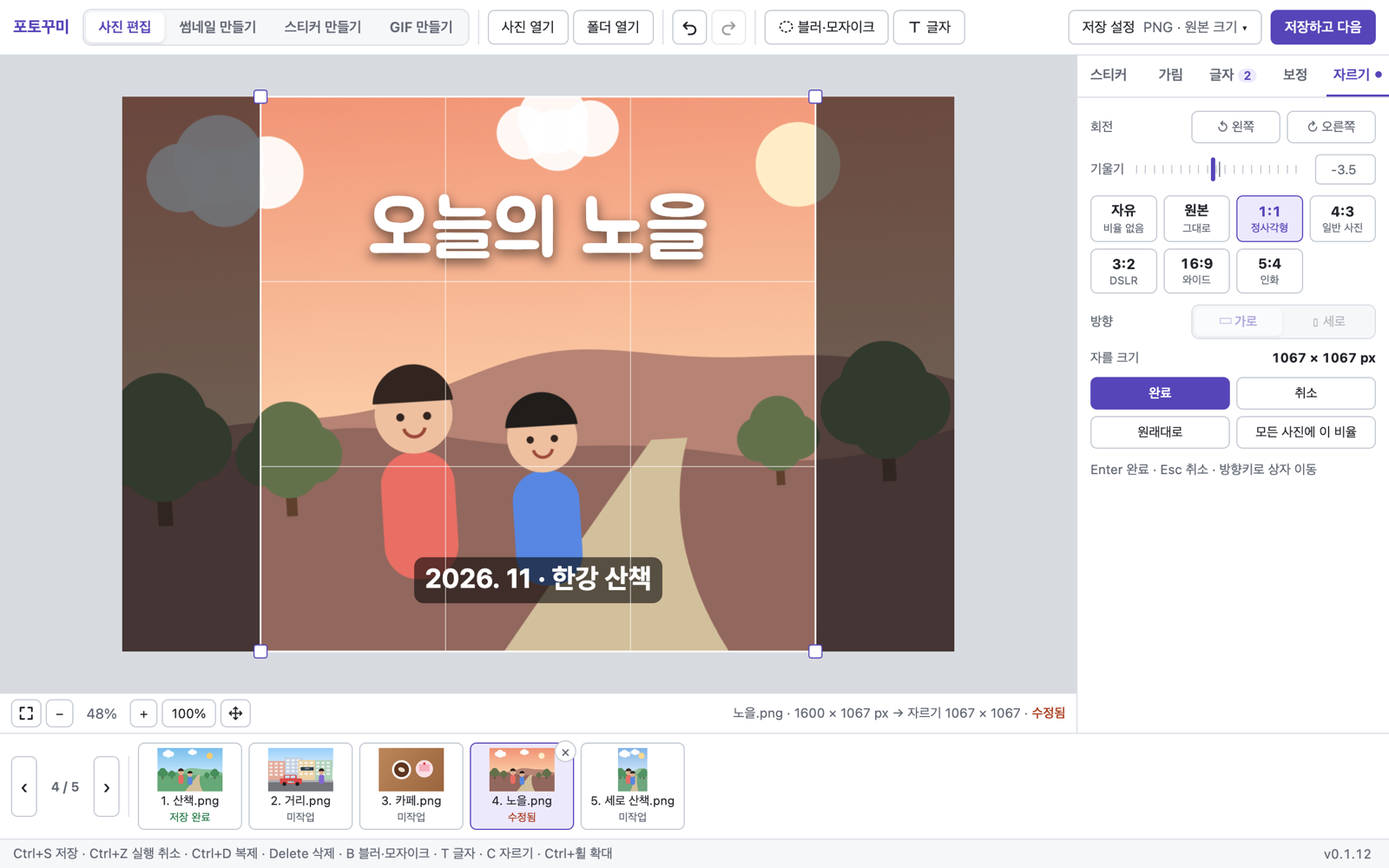
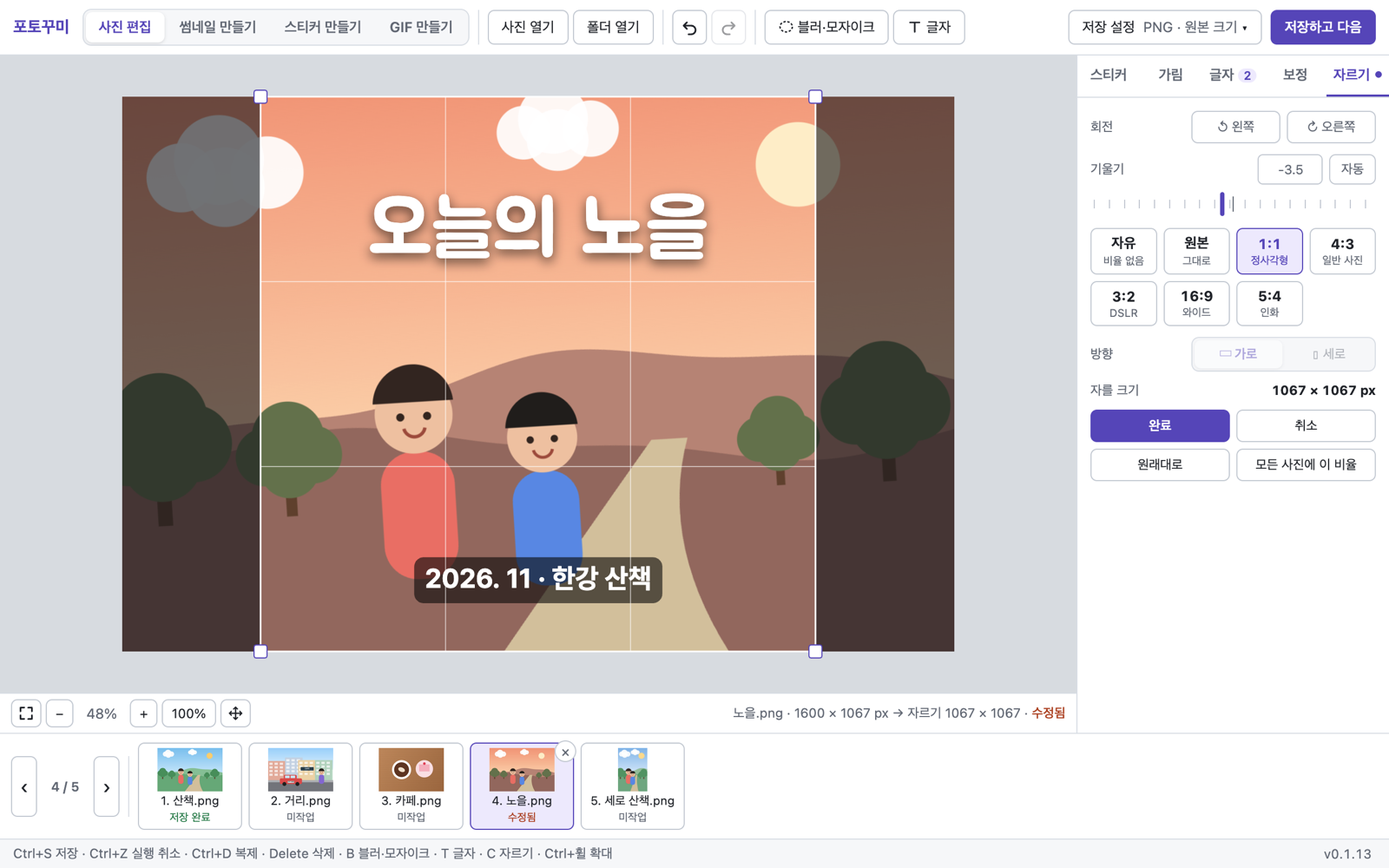
Add auto level button to the straighten row
estimateTilt votes Sobel edge directions in a small Hough transform over
±15° (horizontal lines first, verticals at half weight) and returns null when
no line is long enough to trust. The crop tab gets a 기울기 [number][자동]
row with a full-width ruler below; the hint moved into tooltips so nothing
wraps at the minimum window. README screenshots regenerated.

Changed region(s): [[0.7812, 0.186, 1.0, 0.372], [0.7812, 0.403, 1.0, 0.558]]

diff --git a/src/renderer/src.tsx b/src/renderer/src.tsx
@@ -28,7 +28,8 @@ import { composePng } from './export'
 import { ADJUSTMENT_KEYS, isNeutral, sameAdjustments, NEUTRAL_ADJUSTMENTS, type Adjustments } from '../shared/filters'
 import { CROP_LABELS, CROP_PRESETS, aspectRatio, centeredCrop, cropArea, fullCrop, hasOrientation, isPortraitAspect, moveCrop, normalizeCrop, orient, sameCrop, type Crop, type CropAspect, type CropRect } from '../shared/crop'
 import { turnScene, turnedSize, type Turn } from '../shared/turn'
-import { renderOriented } from './turn-photo'
+import { renderOriented, sampleOriented } from './turn-photo'
+import { LEVEL_RANGE, estimateTilt } from '../shared/level'
 import { MAX_STRAIGHTEN, normalizeStraighten } from '../shared/straighten'
 import './style.css'
 const validTextDefaults = (value: unknown): value is { style: TextStyle; relSize: number } => {
@@ -319,6 +320,17 @@ function App() {
     if (straighten === undefined) delete next.straighten
     if (live) liveEdit(next); else { commitLive(); editScene(next) }
   }
+  /** 자동: finds the lean of the photo's straight lines (on the turned photo, before any tilt) and cancels it. */
+  const autoStraighten = () => run(async () => {
+    if (!rawPhoto || rawPhoto.id === THUMB) return
+    const present = currentHistory.current.present
+    const found = estimateTilt(sampleOriented(rawPhoto.bitmap, present.turn))
+    if (!found) { setStatus(`수평 기준이 될 직선(수평선·건물·테이블 모서리)을 찾지 못했습니다. 눈금자로 맞춰 주세요. (±${LEVEL_RANGE}° 안에서 찾습니다)`); return }
+    const target = normalizeStraighten(-found.tilt)
+    if (target === present.straighten) { setStatus(target ? `이미 자동 수평(${target}°)으로 맞춰져 있습니다.` : '이미 수평입니다.'); return }
+    changeStraighten(target ?? 0)
+    setStatus(target ? `자동으로 ${target}° 기울여 수평을 맞췄습니다. 눈금자로 더 다듬을 수 있습니다.` : '이미 수평이라 기울기를 0°로 두었습니다.')
+  })
   function straightenKey(event: KeyboardEvent<HTMLInputElement>) {
     // Shift+arrow tilts 1° at a time (the slider's own arrows move 0.1°).
     const sign = ({ ArrowLeft: -1, ArrowDown: -1, ArrowRight: 1, ArrowUp: 1 } as Record<string, number>)[event.key]
@@ -1227,12 +1239,15 @@ function App() {
               <button disabled={busy || !cropDraft} title="왼쪽으로 90° 돌리기" aria-label="왼쪽으로 90° 회전" onClick={() => turnPhoto(false)}>↺ 왼쪽</button>
               <button disabled={busy || !cropDraft} title="오른쪽으로 90° 돌리기" aria-label="오른쪽으로 90° 회전" onClick={() => turnPhoto(true)}>↻ 오른쪽</button>
             </div></div>
-            <div className="straighten-row"><span>기울기</span>
+            <div className="field-row"><span>기울기</span><div className="straighten-head">
+              <input type="number" aria-label="기울기" min={-MAX_STRAIGHTEN} max={MAX_STRAIGHTEN} step="0.1" disabled={busy || !cropDraft} value={scene.straighten ?? 0}
+                onChange={e => changeStraighten(e.target.valueAsNumber)} />
+              <button disabled={busy || !cropDraft} title={`사진 속 직선(수평선·건물·테이블 모서리)을 찾아 ±${LEVEL_RANGE}° 안에서 수평을 맞춥니다`} aria-label="자동 수평" onClick={autoStraighten}>자동</button>
+            </div></div>
+            <div className="straighten-row">
               <input type="range" className="ruler" aria-label="기울기 슬라이더" min={-MAX_STRAIGHTEN} max={MAX_STRAIGHTEN} step="0.1" disabled={busy || !cropDraft} value={scene.straighten ?? 0}
                 title="끌어서 수평을 맞춥니다 · 방향키 0.1°, Shift+방향키 1° · 두 번 클릭하면 0°" onDoubleClick={() => changeStraighten(0)} onKeyDown={straightenKey}
                 onChange={e => changeStraighten(e.target.valueAsNumber, true)} onPointerUp={commitLive} onKeyUp={commitLive} onBlur={commitLive} />
-              <input type="number" aria-label="기울기" min={-MAX_STRAIGHTEN} max={MAX_STRAIGHTEN} step="0.1" disabled={busy || !cropDraft} value={scene.straighten ?? 0}
-                onChange={e => changeStraighten(e.target.valueAsNumber)} />
             </div>
             <div className="crop-presets" role="radiogroup" aria-label="자르기 비율">
               {CROP_PRESETS.map(base => {
@@ -1247,13 +1262,13 @@ function App() {
             </div></div>
             <p className="crop-size">자를 크기 <strong data-testid="crop-size" data-x={cropDraft?.crop.x} data-y={cropDraft?.crop.y}>{cropDraft ? `${cropDraft.crop.width} × ${cropDraft.crop.height} px` : '-'}</strong></p>
             <div className="crop-actions">
-              <button className="primary" disabled={busy || !cropDraft} title="Enter" onClick={finishCrop}>완료</button>
+              <button className="primary" disabled={busy || !cropDraft} title="Enter · 방향키로 자를 상자 1px, Shift+방향키 10px 이동" onClick={finishCrop}>완료</button>
               <button disabled={busy || !cropDraft} title="Esc — 이 탭을 열기 전 범위로" onClick={cancelCrop}>취소</button>
               <button disabled={busy || !cropDraft || (cropDraft.crop.width === cropDraft.width && cropDraft.crop.height === cropDraft.height)} title="자르지 않은 원본 전체로 (잘린 부분은 원본에 남아 언제든 다시 넓힐 수 있습니다)" onClick={resetCrop}>원래대로</button>
               <button disabled={busy || !cropDraft || photos.length < 2 || !aspect || aspect === 'free' || aspect === 'original'}
                 title="다른 사진을 같은 비율로 가운데를 자릅니다 (세로 사진은 세로 비율로)" onClick={applyCropToAll}>모든 사진에 이 비율</button>
             </div>
-            <p className="hint">{photo ? 'Enter 완료 · Esc 취소 · 방향키로 상자 이동' : '사진을 열면 자를 수 있습니다.'}</p>
+            {!photo && <p className="hint">사진을 열면 자르고 돌릴 수 있습니다.</p>}
           </section>
         })() : sideTab === 'text' ? textPanel : sideTab === 'adjust' ? <section className="adjust-panel" aria-label="사진 보정">
           {ADJUSTMENT_KEYS.map(key => {

diff --git a/src/shared/level.ts b/src/shared/level.ts
@@ -1,0 +1,100 @@
+/**
+ * Auto level (자동 수평): finds how far the photo's straight lines (horizon, buildings, tables, window frames)
+ * lean from horizontal/vertical, so the straighten tool can cancel it. No model or library: edge directions
+ * from a Sobel filter, then a small Hough vote over candidate tilts in which lines must also be collinear.
+ *
+ * Tilt is in degrees clockwise on screen (image y grows downward): a horizon whose right end sits lower leans +α,
+ * and straightening by −α levels it. Horizontal lines count fully; vertical ones half, because looking up at a
+ * building makes its verticals converge and would mislead the estimate.
+ */
+export interface GrayImage { data: Uint8Array | Uint8ClampedArray; width: number; height: number; channels: 1 | 4 }
+/** Search range: phone photos are rarely more than a few degrees off; wider ranges catch diagonals by mistake. */
+export const LEVEL_RANGE = 15
+const STEP = 0.1
+/** A point only votes for tilts within this many degrees of its own edge direction. */
+const LOCAL_SPREAD = 2
+const VERTICAL_WEIGHT = 0.5
+/** The best line must gather edge pixels along at least this share of the image's short side to be trusted. */
+const MIN_LINE_SHARE = 0.25
+
+export interface LevelResult { tilt: number; strength: number }
+
+function luminance(image: GrayImage): Float32Array {
+  const { data, width, height, channels } = image
+  const out = new Float32Array(width * height)
+  if (channels === 1) { for (let i = 0; i < out.length; i++) out[i] = data[i]; return out }
+  for (let i = 0; i < out.length; i++) out[i] = 0.299 * data[i * 4] + 0.587 * data[i * 4 + 1] + 0.114 * data[i * 4 + 2]
+  return out
+}
+
+/** Returns the lean of the photo's dominant straight lines, or null when no line is clear enough to trust. */
+export function estimateTilt(image: GrayImage): LevelResult | null {
+  const { width, height } = image
+  if (width < 16 || height < 16) return null
+  const gray = luminance(image)
+  // Edge points: position, local line direction (degrees, folded to the nearest axis) and family.
+  const xs: number[] = [], ys: number[] = [], tilts: number[] = [], vertical: boolean[] = []
+  const magnitudes = new Float32Array(width * height)
+  let maxMagnitude = 0
+  for (let y = 1; y < height - 1; y++) for (let x = 1; x < width - 1; x++) {
+    const i = y * width + x
+    const gx = gray[i - width + 1] + 2 * gray[i + 1] + gray[i + width + 1] - gray[i - width - 1] - 2 * gray[i - 1] - gray[i + width - 1]
+    const gy = gray[i + width - 1] + 2 * gray[i + width] + gray[i + width + 1] - gray[i - width - 1] - 2 * gray[i - width] - gray[i - width + 1]
+    const magnitude = Math.hypot(gx, gy)
+    magnitudes[i] = magnitude
+    if (magnitude > maxMagnitude) maxMagnitude = magnitude
+  }
+  // Strong edges only: faint texture (grass, noise, skin) points every way and only blurs the vote.
+  const threshold = Math.max(60, maxMagnitude * 0.25)
+  for (let y = 1; y < height - 1; y++) for (let x = 1; x < width - 1; x++) {
+    const i = y * width + x
+    if (magnitudes[i] < threshold) continue
+    const gx = gray[i - width + 1] + 2 * gray[i + 1] + gray[i + width + 1] - gray[i - width - 1] - 2 * gray[i - 1] - gray[i + width - 1]
+    const gy = gray[i + width - 1] + 2 * gray[i + width] + gray[i + width + 1] - gray[i - width - 1] - 2 * gray[i - width] - gray[i - width + 1]
+    // The line runs perpendicular to the gradient; fold its direction into (−90°, 90°].
+    let line = Math.atan2(gy, gx) * 180 / Math.PI - 90
+    while (line <= -90) line += 180
+    while (line > 90) line -= 180
+    if (Math.abs(line) <= LEVEL_RANGE + LOCAL_SPREAD) { xs.push(x); ys.push(y); tilts.push(line); vertical.push(false) }
+    else if (Math.abs(line) >= 90 - LEVEL_RANGE - LOCAL_SPREAD) { xs.push(x); ys.push(y); tilts.push(line > 0 ? line - 90 : line + 90); vertical.push(true) }
+  }
+  if (!xs.length) return null
+  // Hough vote: for each candidate tilt, project the points that agree with it onto the line normal (1px bins).
+  // Many points on one thin line → a tall bin; Σ bin² rewards long collinear runs over scattered matches.
+  const steps = Math.round(LEVEL_RANGE / STEP)
+  const diagonal = Math.ceil(Math.hypot(width, height)) + 2
+  const bins = new Float32Array(diagonal * 2)
+  // Unweighted point counts per bin: the trust check measures real line length whatever the family.
+  const counts = new Uint32Array(diagonal * 2)
+  let best = { tilt: 0, score: -1, peak: 0 }
+  const scores = new Float64Array(steps * 2 + 1)
+  for (let k = -steps; k <= steps; k++) {
+    const tilt = k * STEP, radians = tilt * Math.PI / 180, cos = Math.cos(radians), sin = Math.sin(radians)
+    bins.fill(0); counts.fill(0)
+    const touched: number[] = []
+    for (let p = 0; p < xs.length; p++) {
+      if (Math.abs(tilts[p] - tilt) > LOCAL_SPREAD) continue
+      // Horizontal family: distance along the normal (−sin, cos); vertical family: along (cos, sin).
+      const rho = vertical[p] ? xs[p] * cos + ys[p] * sin : -xs[p] * sin + ys[p] * cos
+      const bin = Math.round(rho) + diagonal
+      if (bins[bin] === 0) touched.push(bin)
+      bins[bin] += vertical[p] ? VERTICAL_WEIGHT : 1
+      counts[bin]++
+    }
+    let score = 0, peak = 0
+    for (const bin of touched) { score += bins[bin] * bins[bin]; if (counts[bin] > peak) peak = counts[bin] }
+    scores[k + steps] = score
+    if (score > best.score) best = { tilt, score, peak }
+  }
+  // Sobel marks both sides of a thin line, so a line of length L gathers about 2L in a 1px bin; halve to compare.
+  const shortSide = Math.min(width, height)
+  if (best.peak / 2 < shortSide * MIN_LINE_SHARE) return null
+  // Sub-step refinement: a parabola through the peak and its neighbours.
+  const index = Math.round(best.tilt / STEP) + steps
+  let tilt = best.tilt
+  if (index > 0 && index < scores.length - 1) {
+    const left = scores[index - 1], mid = scores[index], right = scores[index + 1], curve = left - 2 * mid + right
+    if (curve < 0) tilt += STEP * Math.max(-0.5, Math.min(0.5, (left - right) / (2 * curve)))
+  }
+  return { tilt: Math.round(tilt * 10) / 10, strength: best.peak / 2 / shortSide }
+}

diff --git a/tests/level.test.ts b/tests/level.test.ts
@@ -1,0 +1,71 @@
+import { describe, it, expect } from 'vitest'
+import { estimateTilt, type GrayImage } from '../src/shared/level'
+
+/** Deterministic noise so failures reproduce. */
+function random(seed: number) { return () => { seed = (seed * 1664525 + 1013904223) >>> 0; return seed / 2 ** 32 } }
+function image(width: number, height: number, shade: (x: number, y: number) => number): GrayImage {
+  const data = new Uint8Array(width * height)
+  for (let y = 0; y < height; y++) for (let x = 0; x < width; x++) data[y * width + x] = Math.max(0, Math.min(255, Math.round(shade(x + 0.5, y + 0.5))))
+  return { data, width, height, channels: 1 }
+}
+/** Anti-aliased step: 0 on one side of the line, 1 on the other, a 1px ramp across it. */
+const ramp = (distance: number) => Math.max(0, Math.min(1, distance + 0.5))
+/** Sky above, ground below a horizon leaning `degrees` clockwise (right end lower), with texture noise. */
+function horizon(degrees: number, width = 640, height = 480, noise = 18, seed = 7) {
+  const next = random(seed), t = Math.tan(degrees * Math.PI / 180), cos = Math.cos(degrees * Math.PI / 180)
+  return image(width, height, (x, y) => {
+    const distance = (y - (height * 0.45 + (x - width / 2) * t)) * cos
+    return 200 - 120 * ramp(distance) + (next() - 0.5) * noise
+  })
+}
+
+describe('자동 수평', () => {
+  it('기울어진 수평선의 각도를 0.2° 안으로 찾는다 (오른쪽이 내려가면 +)', () => {
+    for (const degrees of [0, 0.7, -2.3, 4, -6.5, 9.8, -14]) {
+      const result = estimateTilt(horizon(degrees, 640, 480, 18, Math.round(degrees * 10) + 100))
+      expect(result, `${degrees}°`).not.toBeNull()
+      expect(Math.abs(result!.tilt - degrees), `${degrees}° → ${result!.tilt}°`).toBeLessThanOrEqual(0.2)
+    }
+  })
+  it('세로 사진·RGBA 입력, 건물 세로선만 있는 사진도 찾는다', () => {
+    const portrait = horizon(3.2, 480, 640)
+    expect(Math.abs(estimateTilt(portrait)!.tilt - 3.2)).toBeLessThanOrEqual(0.2)
+    const rgba: GrayImage = { data: new Uint8Array(portrait.width * portrait.height * 4), width: portrait.width, height: portrait.height, channels: 4 }
+    portrait.data.forEach((value, i) => rgba.data.set([value, value, value, 255], i * 4))
+    expect(Math.abs(estimateTilt(rgba)!.tilt - 3.2)).toBeLessThanOrEqual(0.2)
+    // Dark pillars leaning −5°: a vertical line turned clockwise by α leans its top to the right.
+    const degrees = -5, t = Math.tan(degrees * Math.PI / 180), next = random(3)
+    const pillars = image(640, 480, (x, y) => {
+      const shifted = x + (y - 240) * t
+      const near = Math.min(...[120, 260, 400, 520].map(center => Math.abs(shifted - center)))
+      return 210 - 150 * ramp(6 - near) + (next() - 0.5) * 16
+    })
+    expect(Math.abs(estimateTilt(pillars)!.tilt - degrees)).toBeLessThanOrEqual(0.2)
+  })
+  it('올려다본 건물처럼 세로선이 모여 있어도 수평선을 따른다', () => {
+    const degrees = 3, t = Math.tan(degrees * Math.PI / 180), next = random(5)
+    const scene = image(640, 480, (x, y) => {
+      // Pillars lean toward a vanishing point above the photo (−6°…+6°), the horizon leans 3°.
+      const lean = [-6, -3, 3, 6].map((angle, i) => Math.abs(x - (110 + i * 140) - (y - 240) * Math.tan(angle * Math.PI / 180)))
+      const pillar = ramp(4 - Math.min(...lean))
+      const ground = ramp((y - (300 + (x - 320) * t)) * Math.cos(degrees * Math.PI / 180))
+      return 210 - 90 * ground - 80 * pillar + (next() - 0.5) * 16
+    })
+    expect(Math.abs(estimateTilt(scene)!.tilt - degrees)).toBeLessThanOrEqual(0.3)
+  })
+  it('직선이 없거나(질감만, 둥근 물체) 범위 밖 대각선뿐이면 null', () => {
+    const next = random(11)
+    expect(estimateTilt(image(640, 480, () => 128 + (next() - 0.5) * 60))).toBeNull()
+    const circle = image(640, 480, (x, y) => 220 - 160 * ramp(150 - Math.hypot(x - 320, y - 240)))
+    expect(estimateTilt(circle)).toBeNull()
+    const diagonal = image(640, 480, (x, y) => 220 - 160 * ramp(Math.abs((x - y) / Math.SQRT2) < 200 ? 1 : -1))
+    expect(estimateTilt(diagonal)).toBeNull()
+    expect(estimateTilt(image(8, 8, () => 0))).toBeNull()
+  })
+  it('640px 사진 한 장을 0.5초 안에 처리한다', () => {
+    const photo = horizon(2, 640, 480)
+    const start = performance.now()
+    estimateTilt(photo)
+    expect(performance.now() - start).toBeLessThan(500)
+  })
+})

diff --git a/tests/e2e/editor.spec.ts b/tests/e2e/editor.spec.ts
@@ -1830,6 +1830,42 @@ test('기울기: 눈금자·숫자·방향키로 0.1° 단위 조절, 빈 귀퉁
   expect(createHash('sha256').update(await readFile(source)).digest('hex')).toBe(original)
 })
 
+test('자동 수평: 기울어진 수평선을 찾아 반대로 기울이고, 직선이 없으면 안내만 하며 값을 바꾸지 않는다', async () => {
+  // Sky above, ground below a horizon whose right end is 4° lower; noise keeps it photo-like.
+  let seed = 1
+  const noise = () => { seed = (seed * 1664525 + 1013904223) >>> 0; return (seed / 2 ** 32 - 0.5) * 24 }
+  const t = Math.tan(4 * Math.PI / 180)
+  await writeFile(source, makePng(1200, 800, (x, y) => {
+    const ground = Math.max(0, Math.min(1, y + 0.5 - (360 + (x + 0.5 - 600) * t) + 0.5))
+    const v = 200 - 110 * ground + noise()
+    return [v, v + 10, v + 25, 255]
+  }))
+  const flat = join(directory, '질감.png')
+  await writeFile(flat, makePng(900, 600, () => { const v = 150 + noise() * 2; return [v, v, v, 255] }))
+  await select([flat, source]); await page.getByRole('button', { name: '사진 열기', exact: true }).click()
+  const angle = page.getByRole('spinbutton', { name: '기울기', exact: true }), tab = page.getByRole('tab', { name: /자르기/ })
+  // No straight line: only a message, the angle and the photo stay as they were.
+  await tab.click()
+  await page.getByRole('button', { name: '자동 수평', exact: true }).click()
+  await expect(page.getByRole('status')).toContainText('직선')
+  await expect(angle).toHaveValue('0')
+  await expect(page.getByRole('button', { name: '사진 1: 질감.png', exact: true })).not.toContainText('수정됨')
+  await page.getByRole('button', { name: '완료', exact: true }).click()
+
+  await page.getByRole('button', { name: '사진 2: 한글 사진.png', exact: true }).click()
+  await expect(page.getByRole('status')).toContainText('한글 사진.png · 편집 중')
+  await tab.click()
+  await page.getByRole('button', { name: '자동 수평', exact: true }).click()
+  await expect(page.getByRole('status')).toContainText('수평을 맞췄습니다')
+  expect(Math.abs(Number(await angle.inputValue()) + 4)).toBeLessThanOrEqual(0.3)
+  // Pressing it again keeps the same angle.
+  await page.getByRole('button', { name: '자동 수평', exact: true }).click()
+  await expect(page.getByRole('status')).toContainText('이미 자동 수평')
+  // One undo step back to level.
+  await page.getByTestId('canvas-area').focus(); await page.keyboard.press('ControlOrMeta+z')
+  await expect(angle).toHaveValue('0')
+})
+
 function findFfmpeg() {
   const { spawnSync } = process.getBuiltinModule('node:child_process') as typeof import('node:child_process')
   for (const candidate of [process.env.FFMPEG_PATH, 'ffmpeg', '/opt/homebrew/bin/ffmpeg', '/usr/local/bin/ffmpeg'].filter(Boolean) as string[]) {

diff --git a/src/renderer/turn-photo.ts b/src/renderer/turn-photo.ts
@@ -1,5 +1,6 @@
 import { turnedSize, type Turn } from '../shared/turn'
 import { coverScale } from '../shared/straighten'
+import type { GrayImage } from '../shared/level'
 /**
  * The photo as shown and saved: turned by quarter turns clockwise, then tilted by `straighten` degrees and enlarged
  * to cover the frame. A plain quarter turn uses whole-pixel translations only, so nothing is resampled.
@@ -28,5 +29,24 @@ export function renderOriented(bitmap: ImageBitmap, turn: Turn | undefined, stra
       context.drawImage(bitmap, 0, 0)
     }
     return canvas.transferToImageBitmap()
+  } finally { canvas.width = 0; canvas.height = 0 }
+}
+/** A small copy of the turned (not straightened) photo for auto level; long side at most `maxSide` pixels. */
+export function sampleOriented(bitmap: ImageBitmap, turn: Turn | undefined, maxSide = 640): GrayImage {
+  const size = turnedSize(bitmap, turn), scale = Math.min(1, maxSide / Math.max(size.width, size.height))
+  const width = Math.max(1, Math.round(size.width * scale)), height = Math.max(1, Math.round(size.height * scale))
+  const canvas = new OffscreenCanvas(width, height)
+  try {
+    const context = canvas.getContext('2d', { willReadFrequently: true })
+    if (!context) throw new Error('사진을 분석할 Canvas를 만들 수 없습니다.')
+    context.imageSmoothingEnabled = true
+    context.imageSmoothingQuality = 'high'
+    context.scale(width / size.width, height / size.height)
+    if (turn === 1) context.translate(size.width, 0)
+    else if (turn === 2) context.translate(size.width, size.height)
+    else if (turn === 3) context.translate(0, size.height)
+    context.rotate((turn ?? 0) * Math.PI / 2)
+    context.drawImage(bitmap, 0, 0)
+    return { data: context.getImageData(0, 0, width, height).data, width, height, channels: 4 }
   } finally { canvas.width = 0; canvas.height = 0 }
 }

diff --git a/src/renderer/style.css b/src/renderer/style.css
@@ -175,8 +175,10 @@ aside {
 .crop-panel .field-row .segmented { flex: 0 1 170px; }
 .crop-turn { flex: 0 1 170px; display: grid; grid-template-columns: 1fr 1fr; gap: 6px; }
 .crop-turn button { height: 30px; padding: 0 6px; font-size: 12px; }
-.straighten-row { display: grid; grid-template-columns: auto 1fr 56px; align-items: center; gap: 8px; color: var(--muted); font-size: 12px; }
-.straighten-row input[type=number] { width: 56px; height: 28px; text-align: right; }
+.straighten-head { display: flex; gap: 6px; }
+.straighten-head input[type=number] { width: 60px; height: 28px; text-align: right; }
+.straighten-head button { height: 28px; padding: 0 10px; font-size: 12px; }
+.straighten-row { display: flex; margin-top: -4px; }
 /* A ruler like phone galleries: a tick every 5° (18 steps over ±45°), a longer one at 0°, and the angle as an accent bar. */
 .straighten-row .ruler { -webkit-appearance: none; appearance: none; width: 100%; min-width: 0; height: 24px; margin: 0; padding: 0 3px; border: 0; cursor: ew-resize;
   background: linear-gradient(var(--muted), var(--muted)) center / 1px 14px no-repeat,

diff --git a/docs/development.md b/docs/development.md
@@ -6,7 +6,7 @@
 
 블로그에 올릴 사진을 빠르게 준비하는 **Windows용 로컬 데스크톱 앱**입니다. 사진을 열고, 미리 등록한 투명 PNG 스티커로 얼굴을 가리거나 사진을 꾸민 뒤, 크기를 맞춰 저장하고 다음 사진으로 넘어가는 반복 작업에 집중합니다.
 
-**현재 상태: 폴더 입력·하단 썸네일·블로그 리사이즈·스티커 관리 분리 구현 및 macOS 자동 검증 완료. 화면은 상단 툴바 1줄·`저장 설정` 팝오버·스크롤 없는 우측 패널로 정리했습니다([화면 레이아웃 기록](./ui-layout.md)). 탐색기에서 사진·폴더를 끌어 놓아 추가하고 썸네일 `×`로 목록에서 제거합니다([끌어 놓기 기록](./drop-import.md)). `블러·모자이크`로 사진 위에 타원 가림 영역을 그려 스티커처럼 이동·크기·회전하고 강도를 조절합니다([블러·모자이크 기록](./blur-regions.md)). 우측 `보정` 탭에서 노출·대비·채도·색온도를 조절하고 모든 사진에 같은 값을 적용할 수 있습니다([보정 기록](./adjustments.md)). `GIF 만들기` 모드에서 MOV/MP4의 구간을 `[` `]`로 골라 GIF로 저장합니다. 이 기능은 사용자가 따로 설치한 ffmpeg를 사용하며 앱에 포함하지 않습니다([GIF 기록](./gif.md)). 0.1.4부터 고양이·토끼·양·너구리 7방향 기본 스티커 28장(`animal`), 0.1.5부터 하트·반짝이·꽃 등 꾸미기 스티커 12장(`deco`)이 한 번 들어갑니다([기본 스티커 기록](./default-stickers.md)). 0.1.6부터 툴바 `T 글자`와 우측 `글자` 탭으로 사진 위에 글자를 넣고 글꼴(앱 내장 OFL 15종 + 내 PC 글꼴)·크기·색·외곽선·배경 상자·그림자를 조절하고, 빠른 스타일 21종과 직접 저장한 `내 스타일`을 쓰며 마지막 스타일·크기는 재실행 후에도 유지합니다([글자 넣기 기록](./text-overlay.md)). `썸네일 만들기` 모드에서 템플릿 34종(사진형 24·카드뉴스 10)으로 1080×1080 블로그 대표 이미지를 만들고, 템플릿 바꿔 보기·색 테마·도형·내 템플릿을 씁니다([썸네일 기록](./thumbnail.md)). 0.1.10부터 우측 `자르기` 탭(`C`)에서 자유·원본·1:1·4:3·3:2·16:9·5:4(가로/세로) 비율로 원본을 바꾸지 않고 자르고, 같은 비율을 모든 사진에 적용합니다. 같은 탭에서 사진을 90°씩 돌리면 스티커·글자·자를 범위도 함께 돌고, 눈금자로 ±45°까지 0.1°씩 기울여 수평을 맞춥니다(빈 귀퉁이 없이 확대)([자르기·회전·기울기 기록](./crop.md)). 0.1.11부터 아이폰 HEIC 사진을 앱에 내장한 libheif(LGPL-3.0)로 JPEG로 바꿔 열고, 1,600만 화소를 넘으면 열 때 줄입니다([HEIC 기록](./heic.md)). 0.1.12부터 툴바 `스티커 만들기` 모드에서 공정위 표기·소제목·마무리 스티커를 디자인 19종·문구 43개·직접 그린 아이콘 36종으로 만들어 투명 PNG로 저장하거나 라이브러리에 넣습니다([스티커 만들기 기록](./sticker-maker.md)).** 입력 폴더 또는 여러 JPG/PNG/HEIC 사진을 열고 하단 썸네일에서 전환하며 사진별 스티커 배치·선택·undo/redo·저장 상태를 유지합니다. PNG 스티커 라이브러리, 다중 배치·복제·삭제·겹침 순서와 원본/가로 너비·긴 축 기준 JPG·PNG 저장을 제공합니다. 확대 방지와 JPG 품질 100 고정 저장을 지원하며 공통 출력 설정은 재실행 후에도 유지합니다. `저장하고 다음`은 저장 성공 후에만 다음 사진으로 이동하며 마지막 사진에서는 완료를 안내합니다. 사진을 바꾸거나 종료할 때 수정 내용의 저장·버리기·취소를 선택합니다.
+**현재 상태: 폴더 입력·하단 썸네일·블로그 리사이즈·스티커 관리 분리 구현 및 macOS 자동 검증 완료. 화면은 상단 툴바 1줄·`저장 설정` 팝오버·스크롤 없는 우측 패널로 정리했습니다([화면 레이아웃 기록](./ui-layout.md)). 탐색기에서 사진·폴더를 끌어 놓아 추가하고 썸네일 `×`로 목록에서 제거합니다([끌어 놓기 기록](./drop-import.md)). `블러·모자이크`로 사진 위에 타원 가림 영역을 그려 스티커처럼 이동·크기·회전하고 강도를 조절합니다([블러·모자이크 기록](./blur-regions.md)). 우측 `보정` 탭에서 노출·대비·채도·색온도를 조절하고 모든 사진에 같은 값을 적용할 수 있습니다([보정 기록](./adjustments.md)). `GIF 만들기` 모드에서 MOV/MP4의 구간을 `[` `]`로 골라 GIF로 저장합니다. 이 기능은 사용자가 따로 설치한 ffmpeg를 사용하며 앱에 포함하지 않습니다([GIF 기록](./gif.md)). 0.1.4부터 고양이·토끼·양·너구리 7방향 기본 스티커 28장(`animal`), 0.1.5부터 하트·반짝이·꽃 등 꾸미기 스티커 12장(`deco`)이 한 번 들어갑니다([기본 스티커 기록](./default-stickers.md)). 0.1.6부터 툴바 `T 글자`와 우측 `글자` 탭으로 사진 위에 글자를 넣고 글꼴(앱 내장 OFL 15종 + 내 PC 글꼴)·크기·색·외곽선·배경 상자·그림자를 조절하고, 빠른 스타일 21종과 직접 저장한 `내 스타일`을 쓰며 마지막 스타일·크기는 재실행 후에도 유지합니다([글자 넣기 기록](./text-overlay.md)). `썸네일 만들기` 모드에서 템플릿 34종(사진형 24·카드뉴스 10)으로 1080×1080 블로그 대표 이미지를 만들고, 템플릿 바꿔 보기·색 테마·도형·내 템플릿을 씁니다([썸네일 기록](./thumbnail.md)). 0.1.10부터 우측 `자르기` 탭(`C`)에서 자유·원본·1:1·4:3·3:2·16:9·5:4(가로/세로) 비율로 원본을 바꾸지 않고 자르고, 같은 비율을 모든 사진에 적용합니다. 같은 탭에서 사진을 90°씩 돌리면 스티커·글자·자를 범위도 함께 돌고, 눈금자로 ±45°까지 0.1°씩 기울여 수평을 맞추며(빈 귀퉁이 없이 확대) `자동` 버튼은 사진 속 직선을 찾아 ±15° 안에서 수평을 잡습니다([자르기·회전·기울기 기록](./crop.md)). 0.1.11부터 아이폰 HEIC 사진을 앱에 내장한 libheif(LGPL-3.0)로 JPEG로 바꿔 열고, 1,600만 화소를 넘으면 열 때 줄입니다([HEIC 기록](./heic.md)). 0.1.12부터 툴바 `스티커 만들기` 모드에서 공정위 표기·소제목·마무리 스티커를 디자인 19종·문구 43개·직접 그린 아이콘 36종으로 만들어 투명 PNG로 저장하거나 라이브러리에 넣습니다([스티커 만들기 기록](./sticker-maker.md)).** 입력 폴더 또는 여러 JPG/PNG/HEIC 사진을 열고 하단 썸네일에서 전환하며 사진별 스티커 배치·선택·undo/redo·저장 상태를 유지합니다. PNG 스티커 라이브러리, 다중 배치·복제·삭제·겹침 순서와 원본/가로 너비·긴 축 기준 JPG·PNG 저장을 제공합니다. 확대 방지와 JPG 품질 100 고정 저장을 지원하며 공통 출력 설정은 재실행 후에도 유지합니다. `저장하고 다음`은 저장 성공 후에만 다음 사진으로 이동하며 마지막 사진에서는 완료를 안내합니다. 사진을 바꾸거나 종료할 때 수정 내용의 저장·버리기·취소를 선택합니다.
 
 선택한 스티커는 **Delete/Backspace로 삭제**, **방향키로 원본 기준 1px 이동**, **Shift+방향키로 10px 이동**합니다. 입력칸에서는 입력을 우선하며 캔버스를 클릭하면 스티커 조작으로 돌아갑니다. 회전 핸들에 마우스를 올리면 원형 화살표 커서가 표시됩니다. 삭제·이동도 실행 취소/다시 실행할 수 있습니다. Ctrl/Cmd+Z로 실행 취소, Ctrl/Cmd+Shift+Z 또는 Ctrl/Cmd+Y로 다시 실행, Ctrl/Cmd+D로 선택 스티커를 복제합니다. 입력칸·관리 화면에서는 편집 단축키를 가로채지 않습니다.
 
@@ -39,7 +39,7 @@ npm run build
 npm start
 ```
 
-실제 결과: 단위/파일 I/O 140개, Playwright Electron E2E 38개 통과(사진 90° 회전 좌표·저장 픽셀·undo, 기울기 역변환 픽셀·빈 귀퉁이 없음, 스티커 만들기 투명 PNG 픽셀·이름 충돌·라이브러리 분류·여러 문구 저장·재실행 유지, HEIC 열기·P3 색·1,600만 화소 축소·원본 불변·변환본 정리, 자르기 비율·상자 끌기·모든 사진에 비율·잘린 크기 저장 픽셀, 썸네일 1080 JPG 저장 픽셀·템플릿 바꾸기·내 템플릿 재실행 유지, 글자 넣기 미리보기·저장 픽셀 일치, 글자 스타일·내 스타일 재실행 유지, 기본 스티커 1회 추가·삭제 유지, 라이브러리 2개, 빈 라이브러리 등록·스티커 끌어 놓기·선택 도구 막대, 화면 배율 1·2 픽셀 회귀, 최소 창 크기 레이아웃 회귀, 끌어 놓기·제거, 블러·모자이크·보정 저장 픽셀, ffmpeg로 회전 HEVC MOV→GIF 포함. ffmpeg가 없으면 GIF E2E는 건너뜀), 타입·lint·빌드 통과(macOS 26.3 arm64). E2E는 native 파일 대화상자의 선택 결과만 대체하고 실제 main/preload/renderer, Canvas 인코딩과 파일 저장을 사용합니다. 화면 구성은 [레이아웃 기록](./ui-layout.md), 앱 아이콘 생성(`npm run icon -- <원본.png>`)은 [아이콘 기록](./icon.md), 설치 파일 배포(`v*` 태그 → draft Release)와 자동 업데이트(공개 Release 기준)는 [배포 기록](./release.md), 최신 폴더·화면 작업 흐름은 [반복 작업 개선 기록](./workflow.md), 출력 크기·형식과 오류 검증은 [단계 D 기록](./stage-d.md), 여러 사진 편집과 검증은 [단계 C 기록](./stage-c.md), 키보드 조작은 [키보드 조작 기록](./sticker-keyboard.md), 여러 스티커 편집은 [여러 스티커 수정 기록](./multiple-stickers.md), 라이브러리 형식·제한은 [단계 B 기록](./stage-b.md)에 있으며, 이전 검증은 [단계 A 안정화](./stage-a-stabilization.md), [의존성 감사 분석](./dependency-audit.md), [Windows 검증 절차](./windows-validation.md)에 있습니다.
+실제 결과: 단위/파일 I/O 145개, Playwright Electron E2E 39개 통과(사진 90° 회전 좌표·저장 픽셀·undo, 기울기 역변환 픽셀·빈 귀퉁이 없음, 자동 수평 각도·직선 없는 사진 안내, 스티커 만들기 투명 PNG 픽셀·이름 충돌·라이브러리 분류·여러 문구 저장·재실행 유지, HEIC 열기·P3 색·1,600만 화소 축소·원본 불변·변환본 정리, 자르기 비율·상자 끌기·모든 사진에 비율·잘린 크기 저장 픽셀, 썸네일 1080 JPG 저장 픽셀·템플릿 바꾸기·내 템플릿 재실행 유지, 글자 넣기 미리보기·저장 픽셀 일치, 글자 스타일·내 스타일 재실행 유지, 기본 스티커 1회 추가·삭제 유지, 라이브러리 2개, 빈 라이브러리 등록·스티커 끌어 놓기·선택 도구 막대, 화면 배율 1·2 픽셀 회귀, 최소 창 크기 레이아웃 회귀, 끌어 놓기·제거, 블러·모자이크·보정 저장 픽셀, ffmpeg로 회전 HEVC MOV→GIF 포함. ffmpeg가 없으면 GIF E2E는 건너뜀), 타입·lint·빌드 통과(macOS 26.3 arm64). E2E는 native 파일 대화상자의 선택 결과만 대체하고 실제 main/preload/renderer, Canvas 인코딩과 파일 저장을 사용합니다. 화면 구성은 [레이아웃 기록](./ui-layout.md), 앱 아이콘 생성(`npm run icon -- <원본.png>`)은 [아이콘 기록](./icon.md), 설치 파일 배포(`v*` 태그 → draft Release)와 자동 업데이트(공개 Release 기준)는 [배포 기록](./release.md), 최신 폴더·화면 작업 흐름은 [반복 작업 개선 기록](./workflow.md), 출력 크기·형식과 오류 검증은 [단계 D 기록](./stage-d.md), 여러 사진 편집과 검증은 [단계 C 기록](./stage-c.md), 키보드 조작은 [키보드 조작 기록](./sticker-keyboard.md), 여러 스티커 편집은 [여러 스티커 수정 기록](./multiple-stickers.md), 라이브러리 형식·제한은 [단계 B 기록](./stage-b.md)에 있으며, 이전 검증은 [단계 A 안정화](./stage-a-stabilization.md), [의존성 감사 분석](./dependency-audit.md), [Windows 검증 절차](./windows-validation.md)에 있습니다.
 
 단계 C 이전 Windows E2E **15개 전체 통과**를 사용자 로그로 확인했습니다. **단계 C·D와 이번 반복 작업 개선의 Windows 자동·수동 검증은 대기**이며 사용자가 나중에 모아서 확인할 예정입니다. 키보드 삭제·미세 이동·입력 보호·회전 커서, 라이브러리·다중 스티커 편집과 화면 배율 1·2 회귀를 포함합니다. Windows x64 NSIS 설정과 `npm run package:win` 스크립트는 준비했지만 **패키징 및 최신 설치본의 수동 GUI 검증은 대기**입니다. 단계 A의 기본 수동 편집·저장은 이전에 사용자 성공 보고를 받았습니다. 코드 서명·업데이트·릴리스 게시를 설정하지 않았습니다.
 

diff --git a/docs/crop.md b/docs/crop.md
@@ -59,3 +59,21 @@
 # 사진 불러오기 진행 표시 경합 수정 (2026-11-26)
 
 `사진 불러오는 중… 1/2` 진행 메시지는 별도 IPC 채널로 와서 가져오기 결과보다 늦게 도착할 수 있었다. 그러면 `사진 1장 추가` 상태를 덮어 E2E `탐색기에서 끌어 놓은 사진…`이 간헐적으로 실패했다(수정 전 코드에서 6회 중 4회). 가져오기 IPC를 기다리는 동안에만 진행 메시지를 표시하도록 고쳤고, 6회 반복 모두 통과했다.
+
+# 자동 수평 (2026-11-27)
+
+사용자 요청으로 기울기 줄에 `자동` 버튼을 넣었다. 모델·라이브러리 없이 직접 계산한다(`src/shared/level.ts`).
+
+## 결정
+
+- **방식**: 돌린(기울이기 전) 사진을 긴 변 640px로 줄여 → Sobel로 강한 경계만 고르고(최대값의 25%, 최소 60) → 각 점의 선 방향이 후보 각도 ±2° 안이면 선의 법선 방향 거리(1px 칸)에 투표 → 칸 값 제곱합이 가장 큰 각도를 고른다(긴 직선 하나가 흩어진 짧은 조각보다 이김). 0.1° 간격, 포물선 보간 후 0.1°로 반올림. 결과의 반대 각도를 기울기로 넣는다(실행 취소 1단계).
+- **범위 ±15°**: 휴대폰 사진은 보통 몇 도 안이고, 넓히면 지붕·계단 같은 대각선을 수평으로 착각한다. 눈금자는 그대로 ±45°.
+- **가로선 우선**: 세로선은 0.5배로만 반영한다. 올려다본 건물처럼 원근으로 모인 세로선이 결과를 흔들지 않게.
+- **못 찾으면 안내만**: 가장 긴 직선이 짧은 변의 25%에 못 미치면(음식 클로즈업·인물·질감뿐인 사진) 값을 바꾸지 않고 `수평 기준이 될 직선…을 찾지 못했습니다`를 띄운다. 이미 같은 값이면 `이미 자동 수평`.
+- **레이아웃**: `기울기 [숫자] [자동]` 줄과 패널 전체 폭 눈금자 줄로 나눴다(최소 창에서도 눈금자가 넓음). 안내문은 없애고 키 설명은 `완료`·눈금자 툴팁으로 옮겨, Windows 글꼴로 줄바꿈될 문장이 패널에 남지 않는다. macOS 760×580에서 12px 여유.
+
+## 검증
+
+- 단위 `tests/level.test.ts` 5개: 0°·±0.7°~14° 수평선 오차 0.2° 이내(잡음 포함), 세로 사진·RGBA·세로 기둥만 있는 사진, 원근으로 모인 기둥 + 3° 수평선 → 3°(오차 0.3), 질감만·원·범위 밖 대각선·너무 작은 사진 → null, 640px 처리 0.5초 이내.
+- E2E `자동 수평: …`: 직선 없는 사진은 안내만·값 0·수정 표시 없음, 4° 기울어진 1200×800 수평선 → −4°(오차 0.3), 다시 누르면 `이미 자동 수평`, undo 1번에 0°.
+- 실제 사진(건물·바다·실내)에서의 정확도는 합성 이미지로만 확인했다. 사용 중 틀리는 사진이 있으면 그 유형으로 테스트를 추가한다.

diff --git a/README.md b/README.md
@@ -31,7 +31,7 @@
 | ✋ **클릭해서 붙이고 바로 조절** | 스티커를 클릭하면 사진 위에 올라갑니다. 끌어서 옮기고, 모서리로 크기를, 위 핸들로 회전을 조절합니다. 한 사진에 여러 개, 겹침 순서·복제·삭제도 됩니다. |
 | 🔤 **글자 넣기** | 사진 위에 제목·날짜·설명을 씁니다. 앱에 든 한글 글꼴 15종(프리텐다드·본고딕·나눔고딕·주아·검은고딕·나눔손글씨 등)과 내 PC에 설치한 글꼴을 고르고, 크기·색·외곽선·배경 상자·그림자를 조절합니다. 빠른 스타일 21가지(자막·말풍선·손글씨 템플릿 포함)를 누르면 한 번에 바뀌고, 마음에 든 스타일은 **내 스타일**로 저장해 둡니다. 마지막에 쓴 글꼴·크기·색은 다음에 켜도 그대로입니다. |
 | 🫥 **블러·모자이크** | 원형 또는 사각형으로 그려서 가립니다. 그려 둔 영역은 다시 클릭해서 옮기거나 강도를 바꿀 수 있습니다. |
-| ✂ **자르기** | 1:1·4:3·3:2·16:9·5:4와 세로 비율(3:4·9:16·4:5 등) 중에서 고르거나 자유롭게 잘라 냅니다. 원본은 그대로 두고 저장할 때만 자르므로 언제든 다시 넓힐 수 있고, **모든 사진에 같은 비율**로 한 번에 맞출 수도 있습니다(세로 사진은 세로 비율로). 같은 탭에서 사진을 **90°씩 돌릴** 수 있고(올려 둔 스티커·글자도 함께 돕니다), 눈금자로 **기울기**를 ±45°까지 0.1°씩 맞추면 빈 귀퉁이 없이 확대해 수평을 잡습니다. |
+| ✂ **자르기** | 1:1·4:3·3:2·16:9·5:4와 세로 비율(3:4·9:16·4:5 등) 중에서 고르거나 자유롭게 잘라 냅니다. 원본은 그대로 두고 저장할 때만 자르므로 언제든 다시 넓힐 수 있고, **모든 사진에 같은 비율**로 한 번에 맞출 수도 있습니다(세로 사진은 세로 비율로). 같은 탭에서 사진을 **90°씩 돌릴** 수 있고(올려 둔 스티커·글자도 함께 돕니다), 눈금자로 **기울기**를 ±45°까지 0.1°씩 맞추면 빈 귀퉁이 없이 확대해 수평을 잡습니다. **자동** 버튼은 수평선·건물 같은 직선을 찾아 알아서 수평을 맞춥니다. |
 | 🎨 **간단 보정** | 밝기·대비·채도·색온도를 조절하고, 같은 값을 모든 사진에 한 번에 적용할 수 있습니다. |
 | 📱 **아이폰 사진(HEIC)** | 아이폰으로 찍은 HEIC 사진도 JPG처럼 바로 엽니다. 원본은 그대로 두며, 2,400만 화소 사진은 블로그에 충분한 1,600만 화소로 줄여서 엽니다. |
 | 📐 **블로그 크기로 저장** | 원본 크기 그대로 또는 가로/세로 사진별 길이를 정해 JPG·PNG로 저장합니다. 위치 정보(GPS) 같은 사진 정보는 지웁니다. |
